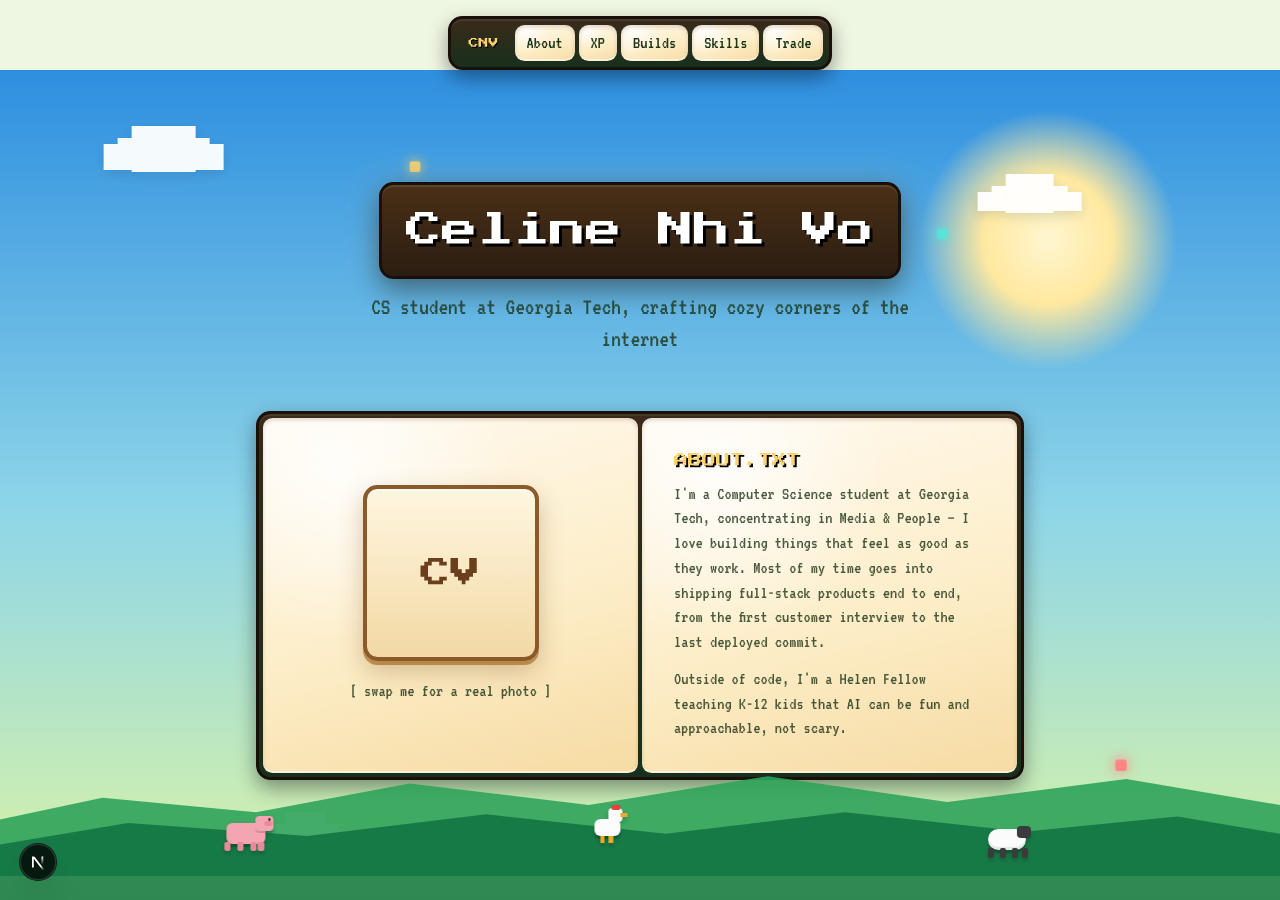
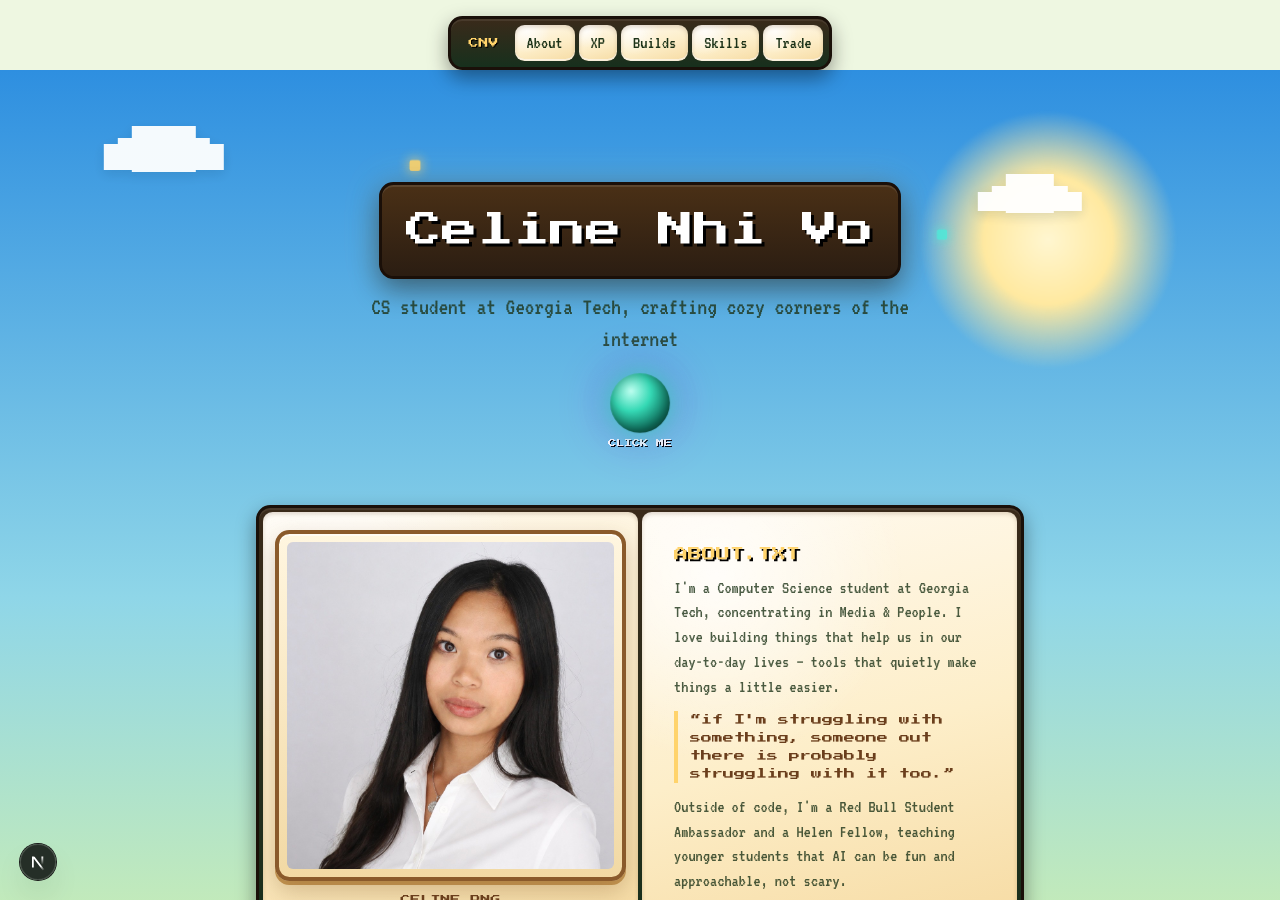
Update README: night/ocean biomes, mobs, fresh preview

diff --git a/README.md b/README.md
@@ -1,6 +1,6 @@
 <div align="center">
 
-<img src="https://readme-typing-svg.demolab.com?font=Press+Start+2P&size=16&duration=3000&pause=1000&color=2FA35A&center=true&vCenter=true&width=600&lines=hi%2C+I'm+Celine's+portfolio;now+loading+biomes...;jungle+%E2%86%92+desert+%E2%86%92+the+end" alt="Typing SVG" />
+<img src="https://readme-typing-svg.demolab.com?font=Press+Start+2P&size=16&duration=3000&pause=1000&color=2FA35A&center=true&vCenter=true&width=600&lines=hi%2C+I'm+Celine's+portfolio;now+loading+biomes...;night+%E2%86%92+ocean+%E2%86%92+the+end" alt="Typing SVG" />
 
 ### 🌎 **[→ VIEW LIVE SITE: celine-portfolio.pages.dev ←](https://celine-portfolio.pages.dev)**
 #### the site is already live and hosted on Cloudflare — nothing below is required to view it
@@ -22,13 +22,14 @@ A personal portfolio site built entirely as a Minecraft-flavored world: a
 scenic grass hillside hero with wandering mobs, and each section themed to
 its own biome —
 
-- 🌴 **Experience** → Jungle
-- 🏜 **Builds** → Desert
-- 🌌 **Skills** → The End
+- 🌙 **Experience** → Night Raid — creeper, zombie, and skeleton out among the quest cards
+- 🪸 **Builds** → Coral Reef — fish, a turtle, a dolphin, and a boat bobbing on the water
+- 🌌 **Skills** → The End — Endermen and a Ghast drifting through the void
+- 🔮 A clickable ender pearl orb teleports you down to Skills
 
 Everything is built from scratch with CSS — pixel fonts, GUI-panel bevels,
 glowing buttons, and hand-coded critter sprites — no game assets, no images
-besides the preview above.
+besides the photo and preview above.
 
 ## ⛏ tech stack
 
